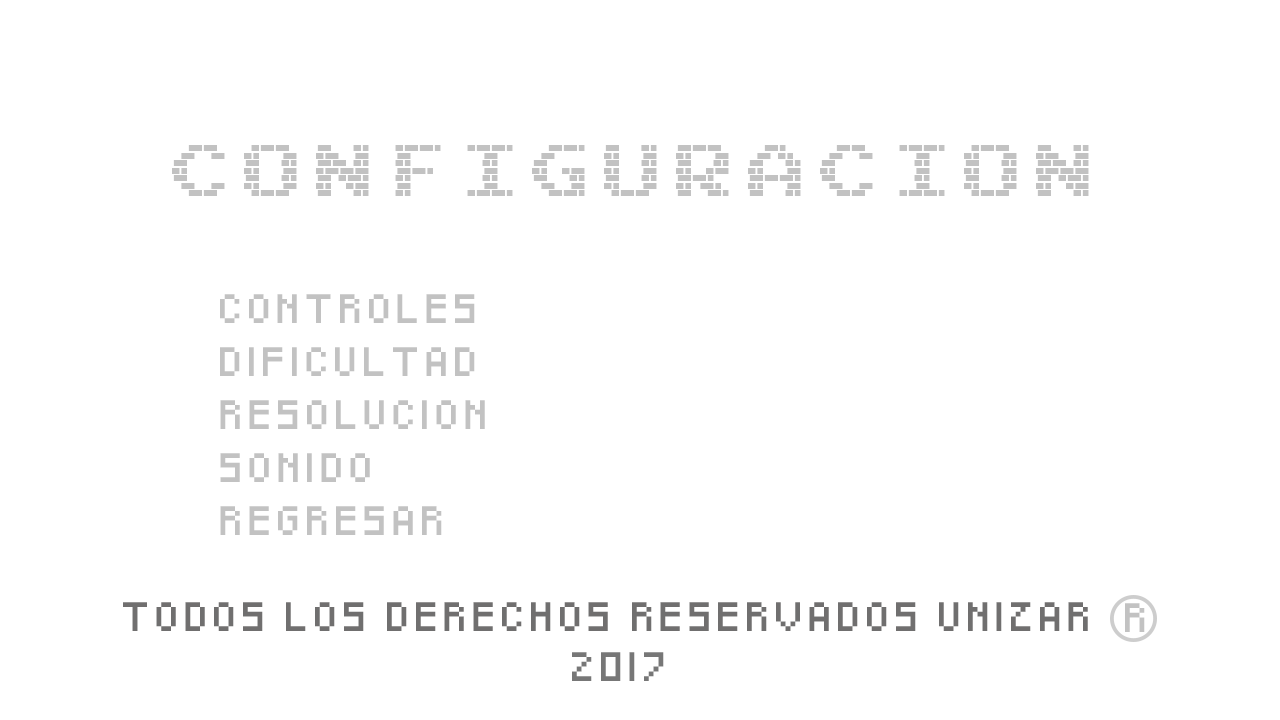
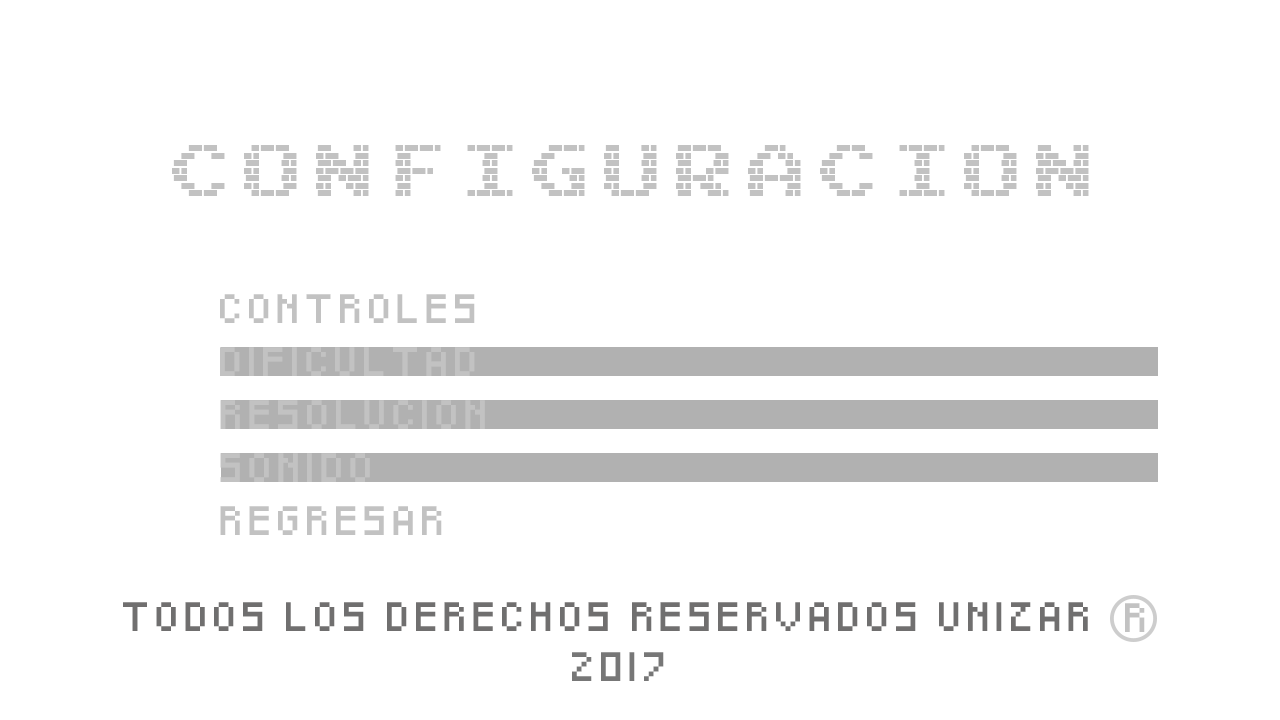
Implement configuration options.

Changed region(s): [[0.1562, 0.55, 0.9062, 0.6722], [0.1562, 0.4583, 0.9062, 0.5194]]

diff --git a/src/main/java/gameController/GameControl.java b/src/main/java/gameController/GameControl.java
@@ -289,20 +289,29 @@ public class GameControl extends Canvas implements Runnable, KeyListener{
 			}
 			break;
 		case CONFIG:
-			if (key == KeyEvent.VK_UP) {
-				cursorMove(-1,Properties.N_OPC_CONFIG);				
-			}
-			if (key == KeyEvent.VK_DOWN) {
-				cursorMove(1,Properties.N_OPC_CONFIG);
-			}
-			if (key == KeyEvent.VK_RIGHT) {
-				
-			}
-			if (key == KeyEvent.VK_LEFT) {
-				
-			}
-			if (key == KeyEvent.VK_ENTER) {				
-				configOptions();
+			if (moveX) {
+				if (key == KeyEvent.VK_RIGHT) {
+					System.out.println("derecha");
+				}
+				if (key == KeyEvent.VK_LEFT) {
+					System.out.println("izquierda");
+				}
+				if (key == KeyEvent.VK_ENTER) {	
+					moveX = false;
+					int y = cursor.getY();
+					cursor.cursorConfigV();
+					cursor.setY(y);
+				}
+			} else {
+				if (key == KeyEvent.VK_UP) {
+					cursorMove(-1,Properties.N_OPC_CONFIG);				
+				}
+				if (key == KeyEvent.VK_DOWN) {
+					cursorMove(1,Properties.N_OPC_CONFIG);
+				}
+				if (key == KeyEvent.VK_ENTER) {				
+					configOptions();
+				}
 			}
 			break;
 		case CONTROLS:
@@ -486,7 +495,7 @@ public class GameControl extends Canvas implements Runnable, KeyListener{
 			break;
 		case 3:
 			config = new Configuration();
-			cursor.cursorConfig();
+			cursor.cursorConfigV();
 			opc = 1;
 			screen = Screen.CONFIG;
 			break;
@@ -504,7 +513,19 @@ public class GameControl extends Canvas implements Runnable, KeyListener{
 			controls.loadButtons();
 			opc = 1;
 			screen = Screen.CONTROLS;			
-			break;		
+			break;
+		case 2:
+			moveX = true;
+			cursor.cursorConfigH();
+			break;
+		case 3:
+			moveX = true;
+			cursor.cursorConfigH();
+			break;
+		case 4:
+			moveX = true;
+			cursor.cursorConfigH();
+			break;
 		case 5:
 			cursor.cursorMenu();
 			opc = 1;
@@ -546,7 +567,7 @@ public class GameControl extends Canvas implements Runnable, KeyListener{
 			cursor.cursorControlsH();
 			break;		
 		case 7:
-			cursor.cursorConfig();
+			cursor.cursorConfigV();
 			opc = 1;
 			screen = Screen.CONFIG;
 			break;

diff --git a/src/main/java/application/Properties.java b/src/main/java/application/Properties.java
@@ -30,6 +30,7 @@ public final class Properties {
 	
 	//Cursor Configuration
 	public final static int X_CURSOR_C = (int) (WIDTH / 2 - (WIDTH * 0.41));
+	public final static int X_INIT_CURSOR_C = (int) (WIDTH / 2 + (WIDTH * 0.07));
 	public final static int Y_INIT_CURSOR_C = (int) (HEIGHT / 2 - (HEIGHT * 0.105));
 	public final static int Y_FINAL_CURSOR_C =  Y_INIT_CURSOR_C + DELTA_CURSOR * (N_OPC_CONFIG-1);
 	
@@ -38,7 +39,7 @@ public final class Properties {
 	public final static int Y_INIT_CURSOR_CT = (int) (HEIGHT / 2 - (HEIGHT * 0.21));
 	public final static int Y_FINAL_CURSOR_CT =  Y_INIT_CURSOR_CT + DELTA_CURSOR * (N_OPC_CONTROLS_V-1);
 	public final static int DELTA_CURSOR_X =  (int) (WIDTH*0.189);
-	public final static int X_INIT_CURSOR_CT = (int) (WIDTH / 2 + (WIDTH * 0.07));
+	public final static int X_INIT_CURSOR_CT = X_INIT_CURSOR_C;
 	public final static int X_FINAL_CURSOR_CT =  X_INIT_CURSOR_CT + DELTA_CURSOR_X * (N_OPC_CONTROLS_H-1);
 	
 	//Controls GUI
@@ -46,6 +47,11 @@ public final class Properties {
 	public final static int DELTA_BUTTONS = (int) (HEIGHT*.074);
 	public final static int X_BUTTONS_IP = (int) (Properties.WIDTH*.64);
 	public final static int X_BUTTONS_IIP = (int) (X_BUTTONS_IP + (WIDTH*.187));
+	
+	//Configuration GUI
+	public final static int Y_CONFIG = (int) (Properties.HEIGHT*.518);
+	public final static int X_CONFIG = (int) (Properties.WIDTH*.65);
+	public final static int DELTA_CONFIG = DELTA_BUTTONS;
 	
 	//Player
 	public final static int INIT_LIFES = 3;

diff --git a/src/main/java/userInterface/Configuration.java b/src/main/java/userInterface/Configuration.java
@@ -1,6 +1,7 @@
 package userInterface;
 
 import java.awt.Color;
+import java.awt.Font;
 import java.awt.Graphics;
 import java.awt.image.BufferedImage;
 
@@ -15,5 +16,15 @@ public class Configuration {
         g.setColor(Color.black);
         g.fillRect(0, 0, Properties.WIDTH, Properties.HEIGHT);
         g.drawImage(IMG_CONFIG, 0, 0, Properties.WIDTH, Properties.HEIGHT, null);
+        
+        g.setColor(Color.white);
+		g.setFont(Properties.FC_PIXEL.getFont(Font.PLAIN, 20));
+        g.drawString("Facil", Properties.X_CONFIG, Properties.Y_CONFIG);
+        
+
+        g.drawString("Mediana", Properties.X_CONFIG, Properties.Y_CONFIG + Properties.DELTA_CONFIG);
+        
+        
+        g.drawString("Si", Properties.X_CONFIG, Properties.Y_CONFIG + Properties.DELTA_CONFIG*2);
     }
 }

diff --git a/src/main/java/userInterface/Cursor.java b/src/main/java/userInterface/Cursor.java
@@ -24,11 +24,16 @@ public class Cursor {
 		y = initY;
 	}
 	
-	public void cursorConfig(){
+	public void cursorConfigV(){
 		initY = Properties.Y_INIT_CURSOR_C;
 		finalY = Properties.Y_FINAL_CURSOR_C;
 		x = Properties.X_CURSOR_C;
 		y = initY;
+	}
+	
+	public void cursorConfigH(){
+		initX = Properties.X_INIT_CURSOR_C;
+		x = initX;
 	}
 	
 	public void cursorControlsV(){

diff --git a/src/main/java/userInterface/Screen.java b/src/main/java/userInterface/Screen.java
@@ -5,6 +5,7 @@ public enum Screen {
 	INTRO,
 	MENU,
 	CONFIG,
+	CONFIG_OPTIONS,
 	CONTROLS,
 	PRESENT_STAGE,
 	INIT_STAGE,
